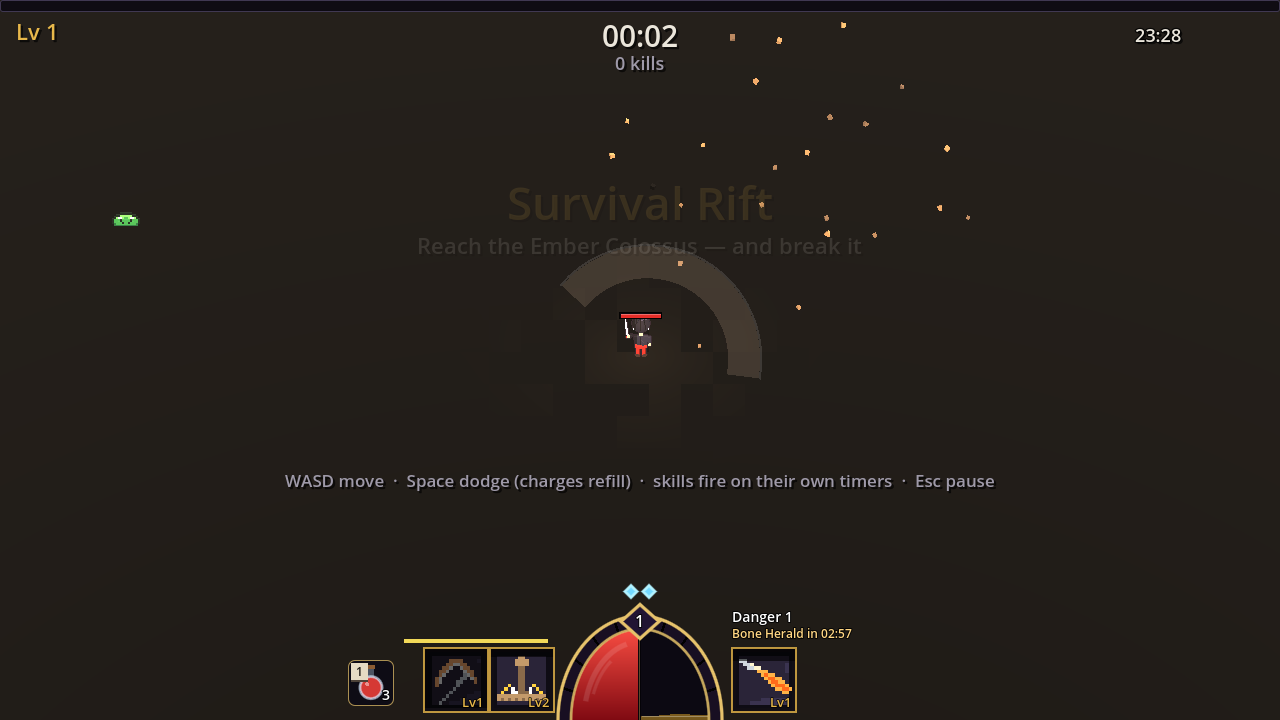
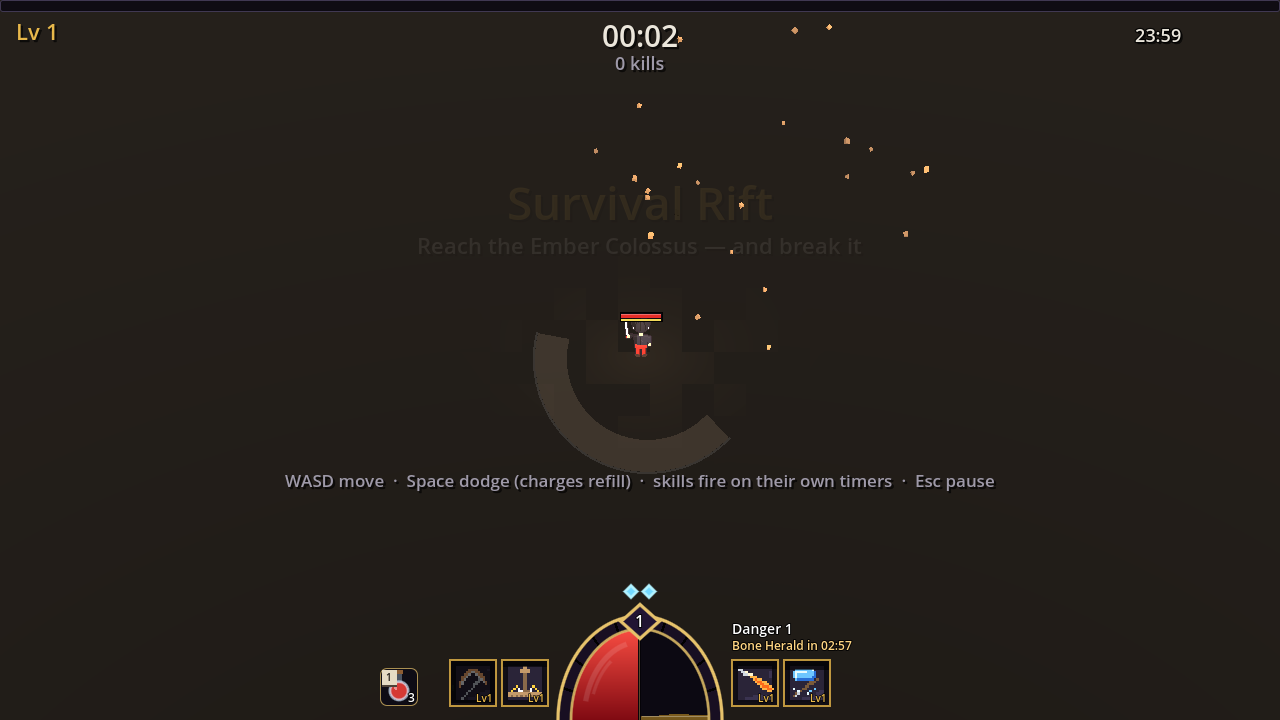
HUD sizes: stamina over the character, smaller skills, flasks and menu bar
- Stamina leaves the bottom cluster and becomes a thin bar under the mana
  bar over the character (OverheadBars).
- Skill slots shrink to the flask boxes' old size (46 px, 36 px for the
  Rift's six), flasks to 38 px, with their caps, icons and labels scaled.
- The hideout menu bar's key caps shrink to 26 px.
- Fix: a slot's Size was set before its minimum, so it stayed 64 px.

Claude-Session: https://claude.ai/code/session_01GALgSjVnubwo1yyZxU2YPv

diff --git a/scripts/UI/HudWidgets.cs b/scripts/UI/HudWidgets.cs
@@ -56,9 +56,9 @@ public partial class DodgePip : Control
 /// </summary>
 public partial class SkillBar : Control
 {
-    public const float SlotSize = 58f;
-    public const float SmallSlot = 44f;
-    public const float SlotGap = 8f;
+    public const float SlotSize = 46f;
+    public const float SmallSlot = 36f;
+    public const float SlotGap = 6f;
 
     /// <summary>Room each side for its slots: two big ones, or three small ones.</summary>
     public const float SideWidth = 3f * SmallSlot + 2f * 6f;
@@ -108,7 +108,7 @@ public partial class SkillBar : Control
         float centre = TotalWidth / 2f;
         for (int i = 0; i < slots.Count; i++)
         {
-            var view = new SkillSlotView(slots[i].Skill, slots[i].Key) { Size = new Vector2(size, size), CustomMinimumSize = new Vector2(size, size) };
+            var view = new SkillSlotView(slots[i].Skill, slots[i].Key) { CustomMinimumSize = new Vector2(size, size), Size = new Vector2(size, size) };
             AddChild(view);
             // Outwards from the mirror on each side, keeping the bar's order left to right.
             float x = i < left
@@ -131,11 +131,12 @@ public partial class SkillBar : Control
     /// <summary>A small light key cap ("Q", "1") with its top-left corner at <paramref name="at"/>.</summary>
     public static void DrawKeyCap(CanvasItem canvas, Font font, Vector2 at, string key, int size = 12)
     {
-        float w = Mathf.Max(17f, font.GetStringSize(key, HorizontalAlignment.Left, -1, size).X + 8f);
-        var cap = new Rect2(at, new Vector2(w, 17f));
+        float h = size + 5f;
+        float w = Mathf.Max(h, font.GetStringSize(key, HorizontalAlignment.Left, -1, size).X + 7f);
+        var cap = new Rect2(at, new Vector2(w, h));
         canvas.DrawRect(new Rect2(cap.Position + new Vector2(0f, 2f), cap.Size), new Color(0.3f, 0.26f, 0.22f));
         canvas.DrawRect(cap, new Color(0.9f, 0.86f, 0.77f));
-        canvas.DrawString(font, new Vector2(cap.Position.X, cap.Position.Y + 13f), key, HorizontalAlignment.Center, w, size, new Color(0.12f, 0.1f, 0.08f));
+        canvas.DrawString(font, new Vector2(cap.Position.X, cap.Position.Y + h - 4f), key, HorizontalAlignment.Center, w, size, new Color(0.12f, 0.1f, 0.08f));
     }
 
     /// <summary>A mouse with the left or right button lit, its top-left corner at <paramref name="at"/>.</summary>
@@ -196,7 +197,7 @@ public partial class SkillSlotView : Control
     {
         Skill = skill;
         _key = key;
-        CustomMinimumSize = new Vector2(64f, 64f);
+        CustomMinimumSize = new Vector2(SkillBar.SlotSize, SkillBar.SlotSize);
         MouseFilter = MouseFilterEnum.Ignore;
     }
 
@@ -219,11 +220,11 @@ public partial class SkillSlotView : Control
         // The key: a mouse with its button lit for LMB/RMB, a key cap otherwise.
         if (_key is "LMB" or "RMB")
         {
-            SkillBar.DrawMouse(this, new Vector2(4f, 4f), _key == "RMB", Size.X < 50f ? 0.8f : 1f);
+            SkillBar.DrawMouse(this, new Vector2(3f, 3f), _key == "RMB", Size.X < 40f ? 0.6f : 0.75f);
         }
         else if (_key.Length > 0)
         {
-            SkillBar.DrawKeyCap(this, font, new Vector2(3f, 3f), _key);
+            SkillBar.DrawKeyCap(this, font, new Vector2(2f, 2f), _key, 10);
         }
 
         if (Skill is null)
@@ -231,11 +232,11 @@ public partial class SkillSlotView : Control
             return;
         }
 
-        DrawStringOutline(font, new Vector2(0f, Size.Y - 5f), $"Lv{Skill.Level}", HorizontalAlignment.Right, Size.X - 4f, 13, 3, new Color(0f, 0f, 0f, 0.85f));
-        DrawString(font, new Vector2(0f, Size.Y - 5f), $"Lv{Skill.Level}", HorizontalAlignment.Right, Size.X - 4f, 13, UiTheme.Gold);
+        DrawStringOutline(font, new Vector2(0f, Size.Y - 4f), $"Lv{Skill.Level}", HorizontalAlignment.Right, Size.X - 3f, 10, 3, new Color(0f, 0f, 0f, 0.85f));
+        DrawString(font, new Vector2(0f, Size.Y - 4f), $"Lv{Skill.Level}", HorizontalAlignment.Right, Size.X - 3f, 10, UiTheme.Gold);
         for (int i = 0; i < Skill.Attached.Count; i++)
         {
-            DrawCircle(new Vector2(8f + i * 10f, Size.Y - 9f), 3.5f, new Color(0.3f, 0.9f, 0.45f));
+            DrawCircle(new Vector2(6f + i * 7f, Size.Y - 6f), 2.5f, new Color(0.3f, 0.9f, 0.45f));
         }
     }
 }

diff --git a/scripts/UI/PlayerHudBar.cs b/scripts/UI/PlayerHudBar.cs
@@ -248,16 +248,10 @@ public partial class PlayerHudBar : Control
             }
         }
 
-        // Stamina over the left skills, the class resource over the right ones.
+        // The class resource over the right skills (stamina lives under the bars over the
+        // character since 2026-10-29: OverheadBars).
         float sideLen = SkillBar.SideWidth;
         float leftStart = CenterX - MirrorClearance - sideLen;
-        if (Player.MaxStamina > 0f)
-        {
-            float s = Mathf.Clamp(Mathf.Max(0f, Player.Stamina) / Player.MaxStamina, 0f, 1f);
-            DrawRect(new Rect2(leftStart, SlotTop - 9f, sideLen, 4f), Track);
-            // Drains towards the mirror like the old bar did towards the badge.
-            DrawRect(new Rect2(leftStart + sideLen * (1f - s), SlotTop - 9f, sideLen * s, 4f), Player.Exhausted ? new Color(1f, 0.45f, 0.4f) : new Color(0.95f, 0.85f, 0.35f));
-        }
 
         if (Resource() is { } res)
         {
@@ -274,7 +268,7 @@ public partial class PlayerHudBar : Control
         // --- flasks at the outer ends of the skill bar ---
         if (Flasks.Of(Player) is { } flasks)
         {
-            const float fs = 46f;
+            const float fs = 38f;
             float y = Height - 14f - fs;
             DrawFlask(font, new Rect2(leftStart - 10f - fs, y, fs, fs), flasks.Life, "1", LifeTop, LifeBottom);
             if (ShowMana && flasks.Mana.Enabled)
@@ -456,8 +450,8 @@ public partial class PlayerHudBar : Control
             DrawRect(new Rect2(r.Position.X + 4f, r.End.Y - 5f, (r.Size.X - 8f) * flask.Partial, 2f), top with { A = 0.8f });
         }
 
-        SkillBar.DrawKeyCap(this, font, r.Position + new Vector2(3f, 3f), key);
-        Text(font, flask.Usable.ToString(), r.Position + new Vector2(r.Size.X - 4f, r.Size.Y - 6f), 14, empty ? new Color(1f, 0.4f, 0.35f) : Colors.White, HorizontalAlignment.Right);
+        SkillBar.DrawKeyCap(this, font, r.Position + new Vector2(2f, 2f), key, 10);
+        Text(font, flask.Usable.ToString(), r.Position + new Vector2(r.Size.X - 3f, r.Size.Y - 4f), 12, empty ? new Color(1f, 0.4f, 0.35f) : Colors.White, HorizontalAlignment.Right);
         if (empty)
         {
             DrawRect(r, new Color(0f, 0f, 0f, 0.35f));

diff --git a/scripts/UI/HideoutHud.cs b/scripts/UI/HideoutHud.cs
@@ -160,7 +160,7 @@ public partial class HideoutHud : CanvasLayer
         var bar = new PanelContainer { Name = "MenuBar" };
         // Bottom right, a little off the edges, a touch shorter than the flask boxes (owner, 2026-10-29).
         StyleBoxFlat glass = Glass(UiTheme.PanelBorder, 1);
-        glass.SetContentMarginAll(3f);
+        glass.SetContentMarginAll(2f);
         bar.AddThemeStyleboxOverride("panel", glass);
         _root.AddChild(bar);
         bar.SetAnchorsPreset(Control.LayoutPreset.BottomRight, true);
@@ -511,7 +511,7 @@ public partial class HideoutHud : CanvasLayer
         public override void _Ready()
         {
             // A key cap alone; what it does is its tooltip.
-            CustomMinimumSize = new Vector2(Mathf.Max(34f, Key.Length * 9f + 16f), 34f);
+            CustomMinimumSize = new Vector2(Mathf.Max(26f, Key.Length * 7f + 12f), 26f);
             MouseFilter = MouseFilterEnum.Stop;
             MouseDefaultCursorShape = CursorShape.PointingHand;
             MouseEntered += () => { _hover = true; QueueRedraw(); };
@@ -535,12 +535,12 @@ public partial class HideoutHud : CanvasLayer
             Color face = _hover ? new Color(1f, 0.95f, 0.82f) : new Color(0.88f, 0.84f, 0.75f);
             DrawRect(new Rect2(cap.Position + new Vector2(0f, 3f), cap.Size), new Color(0.35f, 0.3f, 0.25f));
             DrawRect(cap, face);
-            DrawString(font, new Vector2(cap.Position.X, cap.Position.Y + 18f), Key, HorizontalAlignment.Center, cap.Size.X, 14, new Color(0.12f, 0.1f, 0.08f));
+            DrawString(font, new Vector2(cap.Position.X, cap.Position.Y + 13f), Key, HorizontalAlignment.Center, cap.Size.X, 11, new Color(0.12f, 0.1f, 0.08f));
             if (Badge?.Invoke() is > 0 and var n)
             {
                 Vector2 c = new(cap.End.X - 3f, cap.Position.Y + 3f);
-                DrawCircle(c, 8f, UiTheme.Ember);
-                DrawString(font, c + new Vector2(-8f, 4.5f), n.ToString(), HorizontalAlignment.Center, 16f, 11, Colors.White);
+                DrawCircle(c, 6f, UiTheme.Ember);
+                DrawString(font, c + new Vector2(-6f, 3.5f), n.ToString(), HorizontalAlignment.Center, 12f, 9, Colors.White);
             }
         }
     }

diff --git a/scripts/UI/OverheadBars.cs b/scripts/UI/OverheadBars.cs
@@ -15,6 +15,7 @@ public partial class OverheadBars : Node2D
     private const float Width = 40f;
     private const float LifeH = 4f;
     private const float ManaH = 3f;
+    private const float StaminaH = 2f;
 
     /// <summary>Height above the character's feet, in world pixels.</summary>
     [Export]
@@ -63,7 +64,9 @@ public partial class OverheadBars : Node2D
     public override void _Draw()
     {
         bool mana = !_player.Stats.IgnoresResourceCosts && _player.Stats.Mana is not null;
-        float height = LifeH + (mana ? ManaH + 1f : 0f);
+        // Stamina under the mana bar (owner, 2026-10-29: its only place now).
+        bool stamina = _player.MaxStamina > 0f;
+        float height = LifeH + (mana ? ManaH + 1f : 0f) + (stamina ? StaminaH + 1f : 0f);
         var frame = new Rect2(-Width / 2f - 1f, -1f, Width + 2f, height + 2f);
         DrawRect(frame, new Color(0.03f, 0.02f, 0.05f, 0.85f));
 
@@ -82,6 +85,13 @@ public partial class OverheadBars : Node2D
         if (mana)
         {
             DrawRect(new Rect2(-Width / 2f, LifeH + 1f, Width * Fraction(_player.Stats.Mana), ManaH), new Color(0.2f, 0.7f, 1f));
+        }
+
+        if (stamina)
+        {
+            float s = Mathf.Clamp(Mathf.Max(0f, _player.Stamina) / _player.MaxStamina, 0f, 1f);
+            float y = LifeH + 1f + (mana ? ManaH + 1f : 0f);
+            DrawRect(new Rect2(-Width / 2f, y, Width * s, StaminaH), _player.Exhausted ? new Color(1f, 0.45f, 0.4f) : new Color(0.95f, 0.85f, 0.35f));
         }
 
         DrawRect(frame, new Color(0f, 0f, 0f, 0.9f), false, 1f);

diff --git a/docs/design/menus.md b/docs/design/menus.md
@@ -872,3 +872,13 @@ gear if the owner wants it there too. HUD-editor id `loot_feed`.
 - **No "New quest" card** any more (owner, 2026-10-29): a quest that unlocks plays its
   `quest_new` sound and appears in the tracker (top right) and the quest log (J), nothing
   else. The "quest complete" and reward cards stay (`QuestToast`, docs/design/quests.md).
+
+### Sizes after the owner's third pass (2026-10-30)
+
+- **Stamina** left the HUD's bottom cluster: it is a thin yellow bar under the mana bar
+  over the character (`OverheadBars`; red while exhausted). With the overhead bars turned
+  off in Settings it doesn't show at all.
+- **Skill slots** are the size the flask boxes were (46 px; 36 px for the Rift's six
+  auto-cast skills), and the **flasks** shrank in proportion (38 px), with smaller key
+  caps, mouse icons, levels and support pips.
+- The **menu bar** (bottom right) is smaller again: 26 px key caps.
